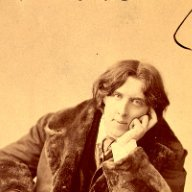
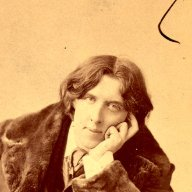
1.4.1: retrato de Oscar Wilde centralizado

diff --git a/js/pwa.js b/js/pwa.js
@@ -1,7 +1,7 @@
 /* Britland Academy: registers the service worker and tells the student when a new version is ready. */
 (function(){
 'use strict';
-window.BL_VERSION='1.4.0'; /* keep equal to VERSION in sw.js */
+window.BL_VERSION='1.4.1'; /* keep equal to VERSION in sw.js */
 if(!('serviceWorker' in navigator))return;
 var had=!!navigator.serviceWorker.controller,shown=false;
 function banner(){

diff --git a/sw.js b/sw.js
@@ -1,6 +1,6 @@
 /* Britland Academy service worker.
    Change VERSION every time the app is updated, so students always get the new files. */
-const VERSION = "1.4.0";
+const VERSION = "1.4.1";
 const CACHE = 'bl-' + VERSION;
 const CORE = ['offline.html', 'img/britland-shield.png', 'img/icons/icon-192.png', 'favicon-32.png'];
 
